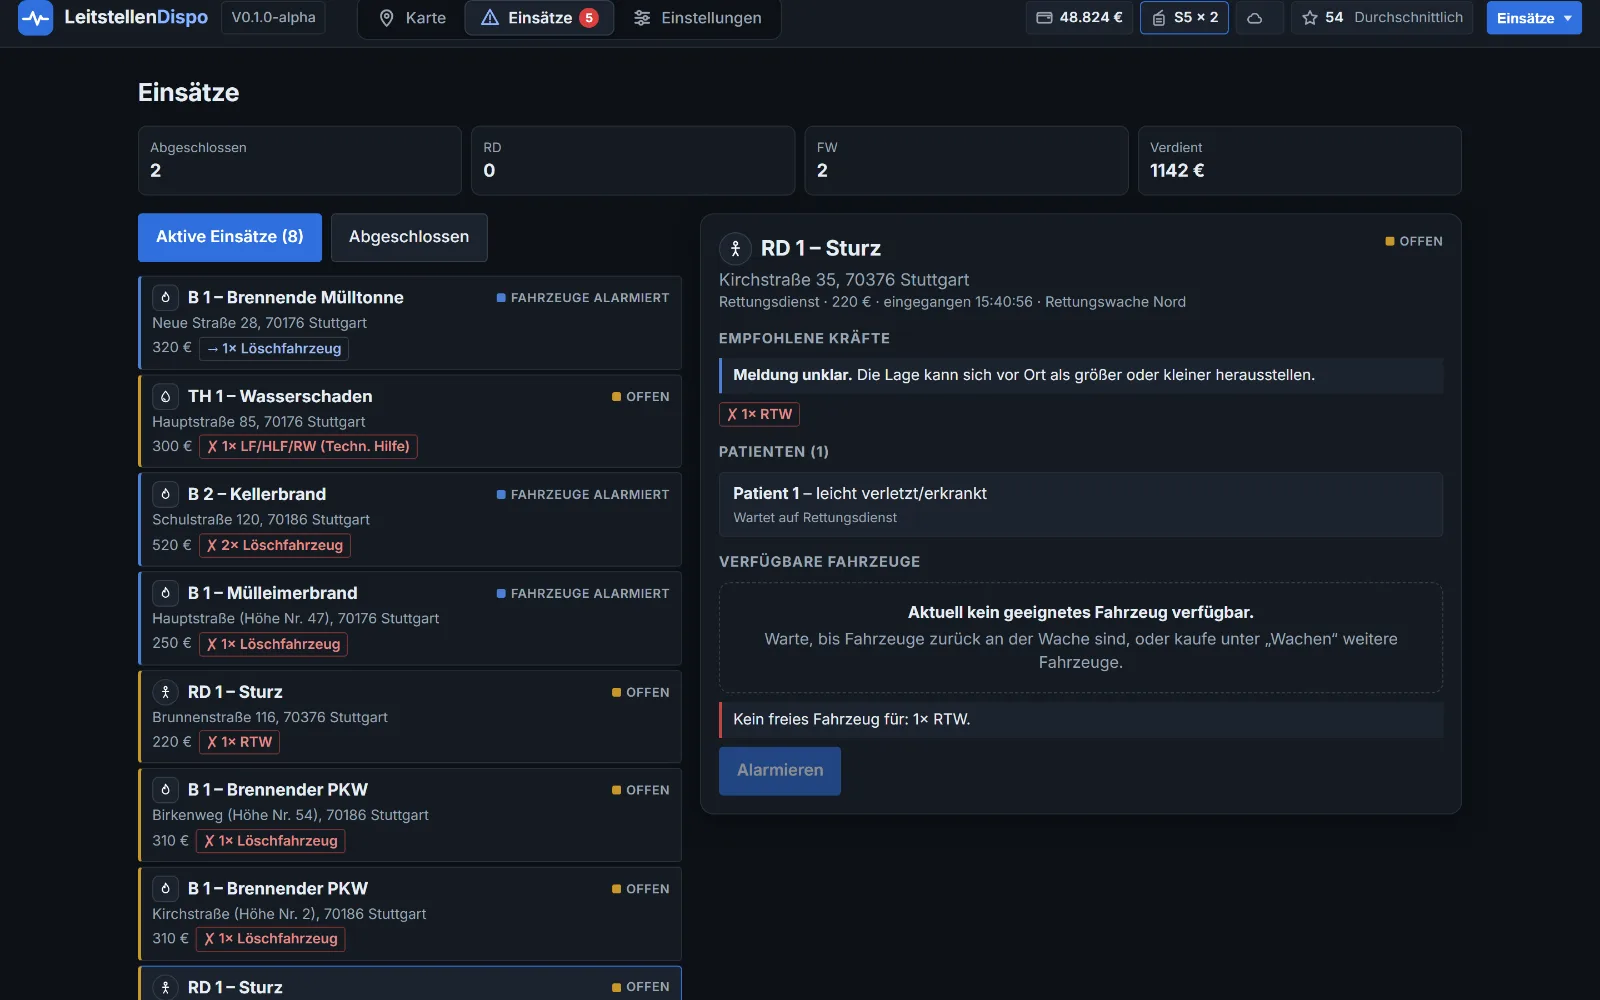
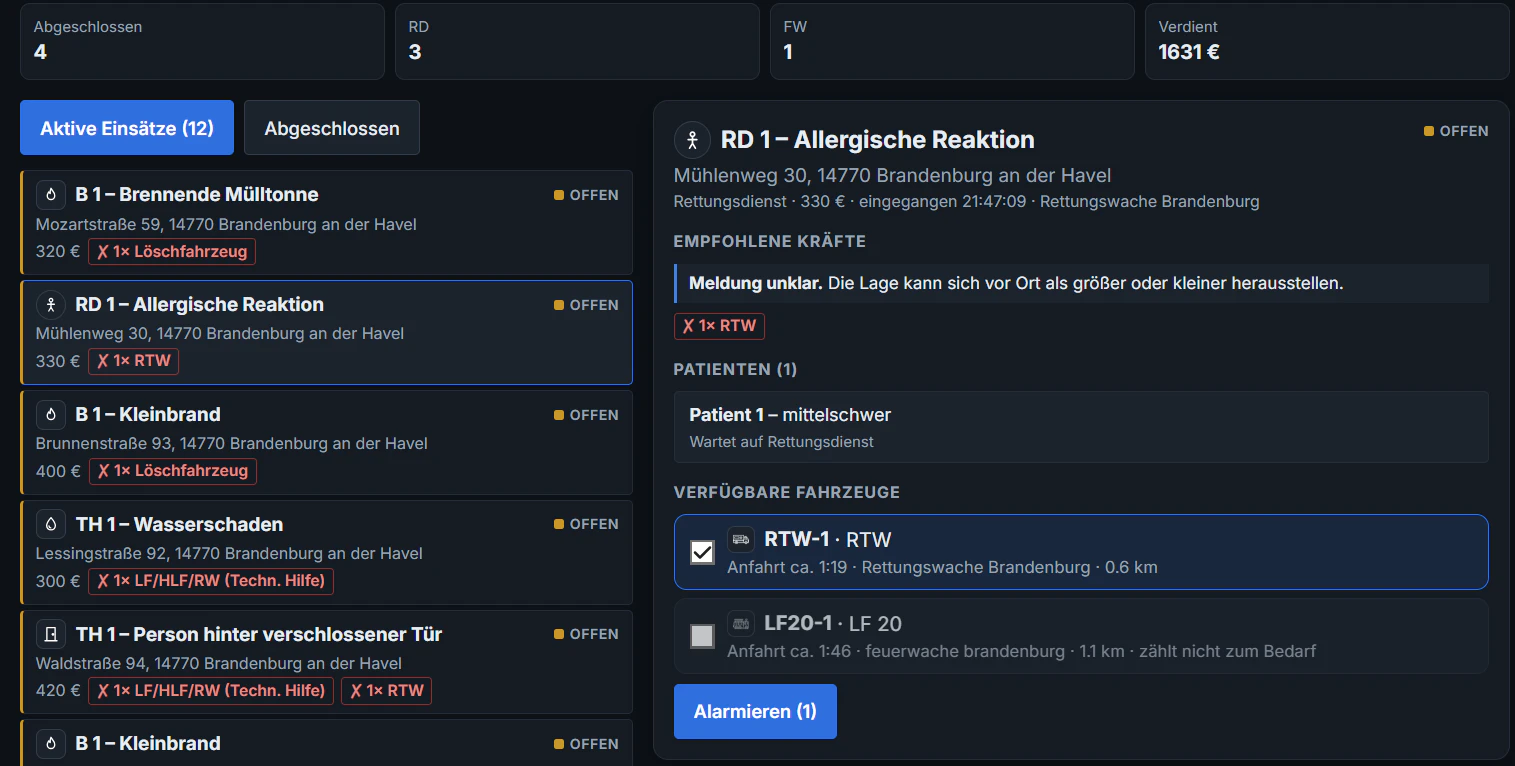
Startseite: schärfere Screenshots (Ausschnitte, höhere Qualität, volle Breite)

diff --git a/index.html b/index.html
@@ -405,19 +405,19 @@
         </h2>
 
         <figure class="einblick einblick-gross">
-          <img src="bilder/spiel-karte.webp" width="1600" height="1000" loading="lazy"
+          <img src="bilder/spiel-karte.webp" width="1917" height="1078" loading="lazy"
             alt="Spielansicht Karte: Wachen, laufende Einsätze und Fahrzeuge auf dem Weg zum Einsatzort">
           <figcaption>Karte – Wachen, Einsätze und Fahrzeuge auf der Anfahrt in Echtzeit.</figcaption>
         </figure>
 
         <div class="einblicke-raster">
           <figure class="einblick">
-            <img src="bilder/spiel-einsaetze.webp" width="1600" height="1000" loading="lazy"
+            <img src="bilder/spiel-einsaetze.webp" width="1515" height="766" loading="lazy"
               alt="Spielansicht Einsätze: Liste offener Einsätze und Details mit Fahrzeugbedarf">
             <figcaption>Einsätze – Fahrzeugbedarf prüfen und die passenden Kräfte alarmieren.</figcaption>
           </figure>
           <figure class="einblick">
-            <img src="bilder/spiel-funk.webp" width="1600" height="1000" loading="lazy"
+            <img src="bilder/spiel-funk.webp" width="1592" height="986" loading="lazy"
               alt="Spielansicht Funk: Alarmierung, FMS-Status und Lagemeldungen der Fahrzeuge">
             <figcaption>Funk – Alarmierung, FMS-Status und Lagemeldungen von vor Ort.</figcaption>
           </figure>

diff --git a/style.css b/style.css
@@ -2470,7 +2470,7 @@ h1 span {
 
 .einblicke-raster {
   display: grid;
-  grid-template-columns: 1fr 1fr;
+  grid-template-columns: 1fr;
   gap: 24px;
 }
 
